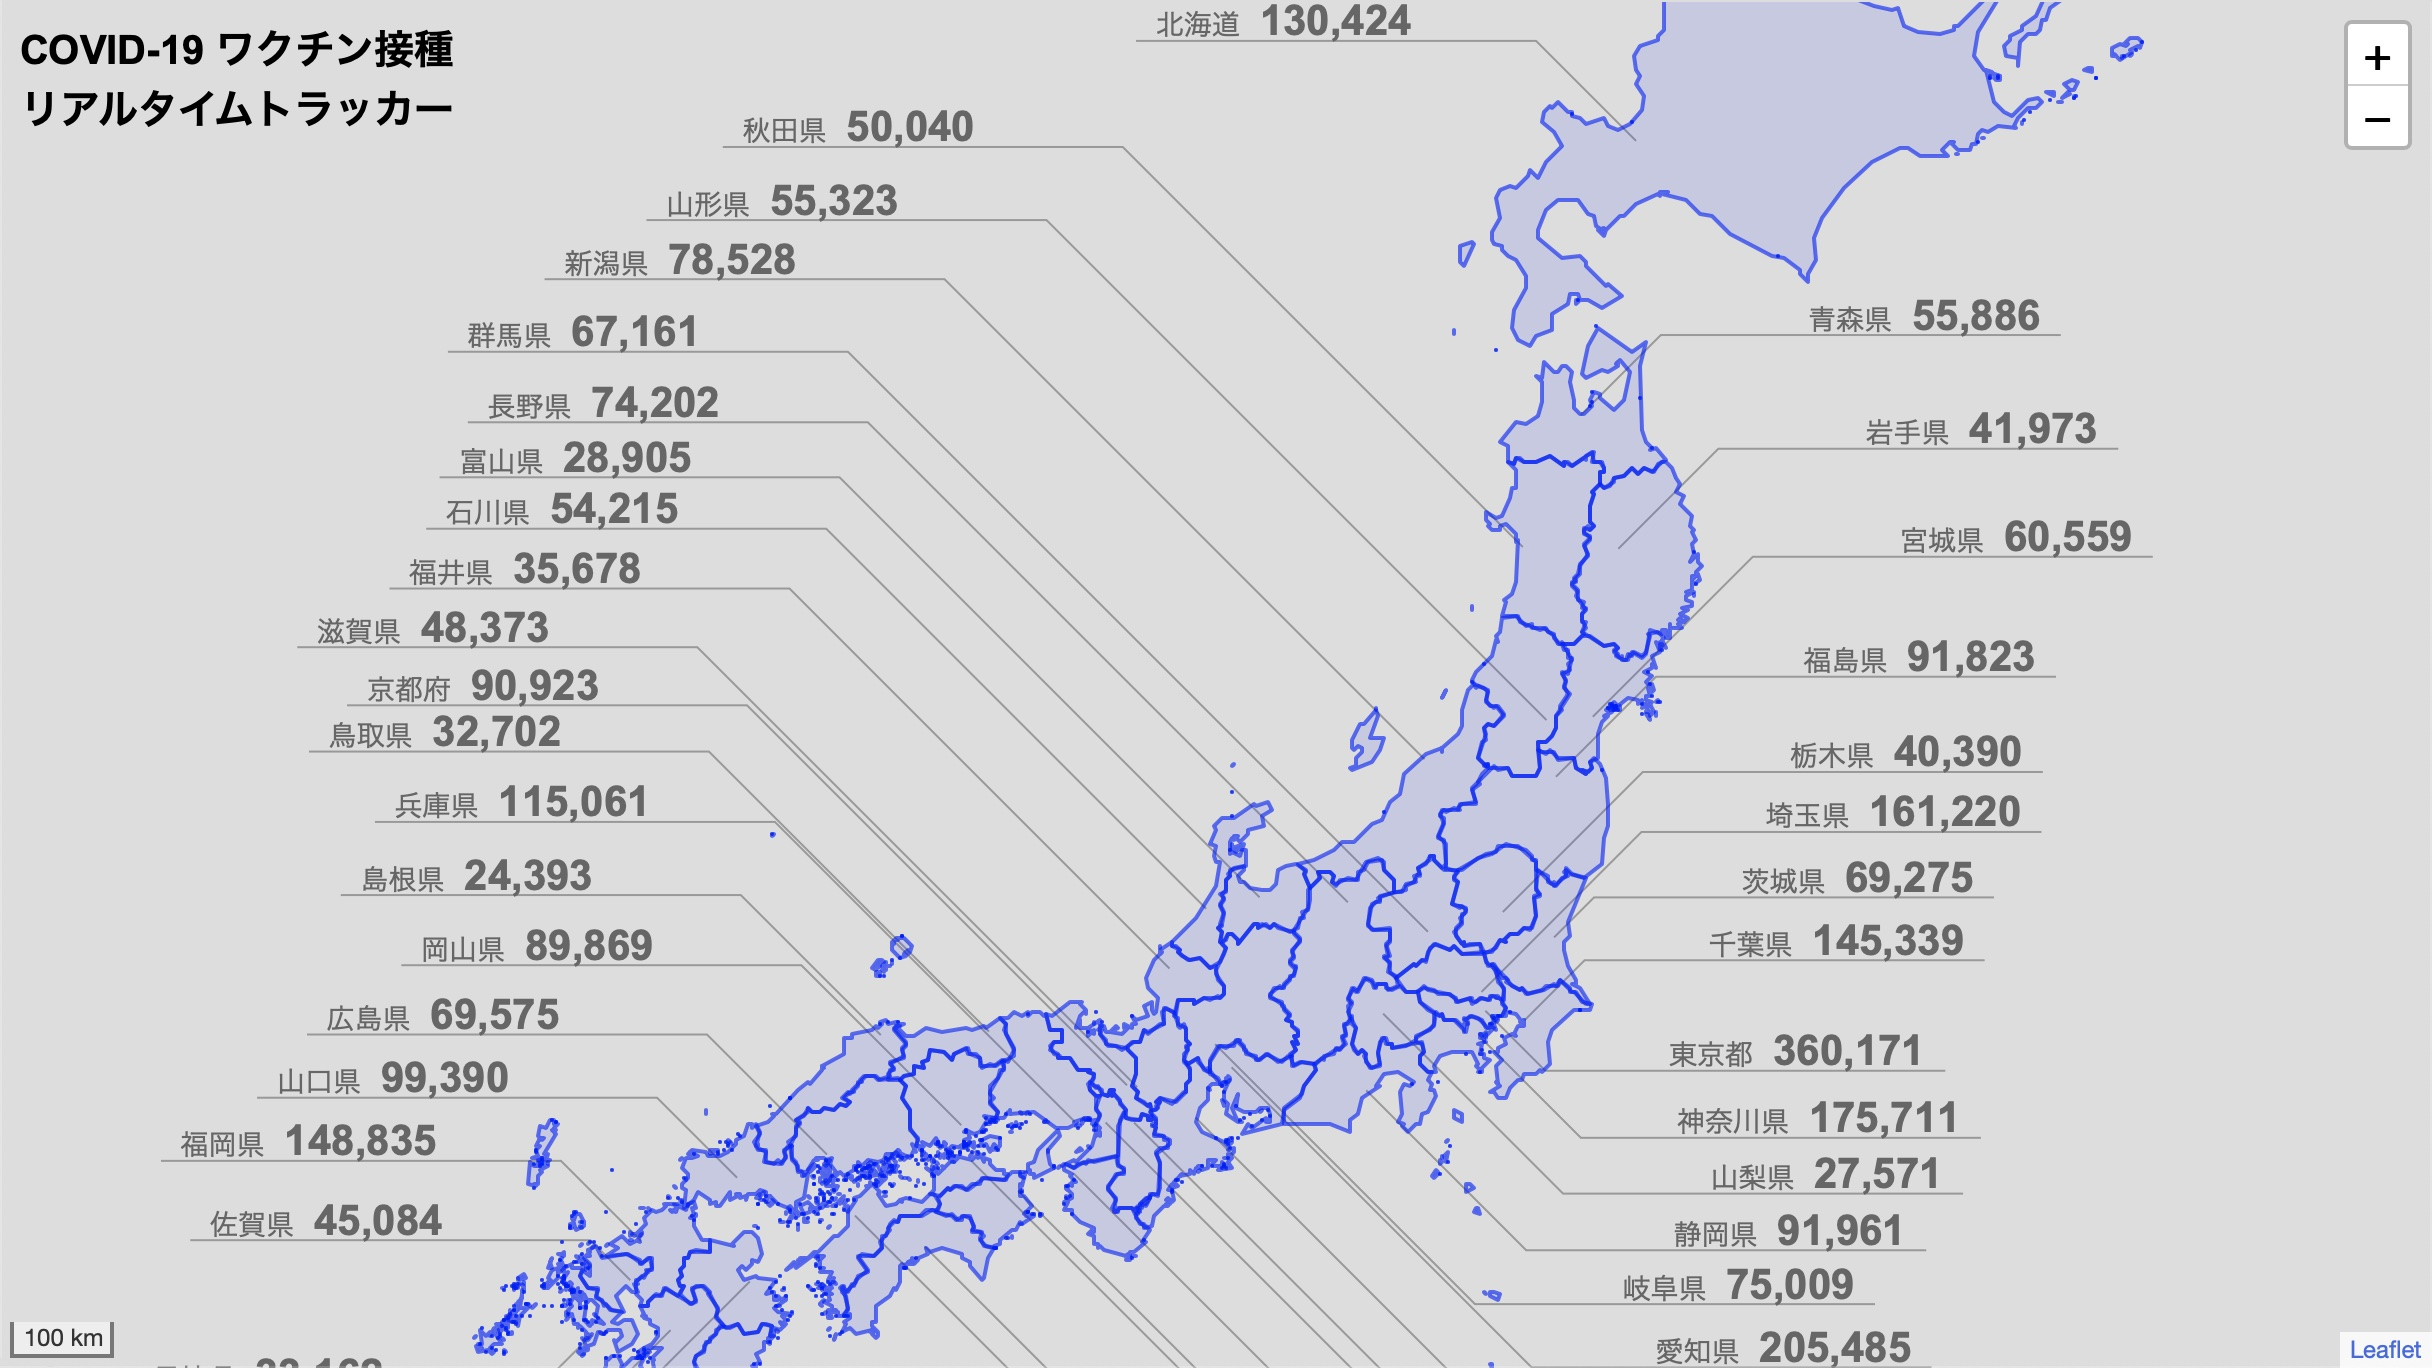
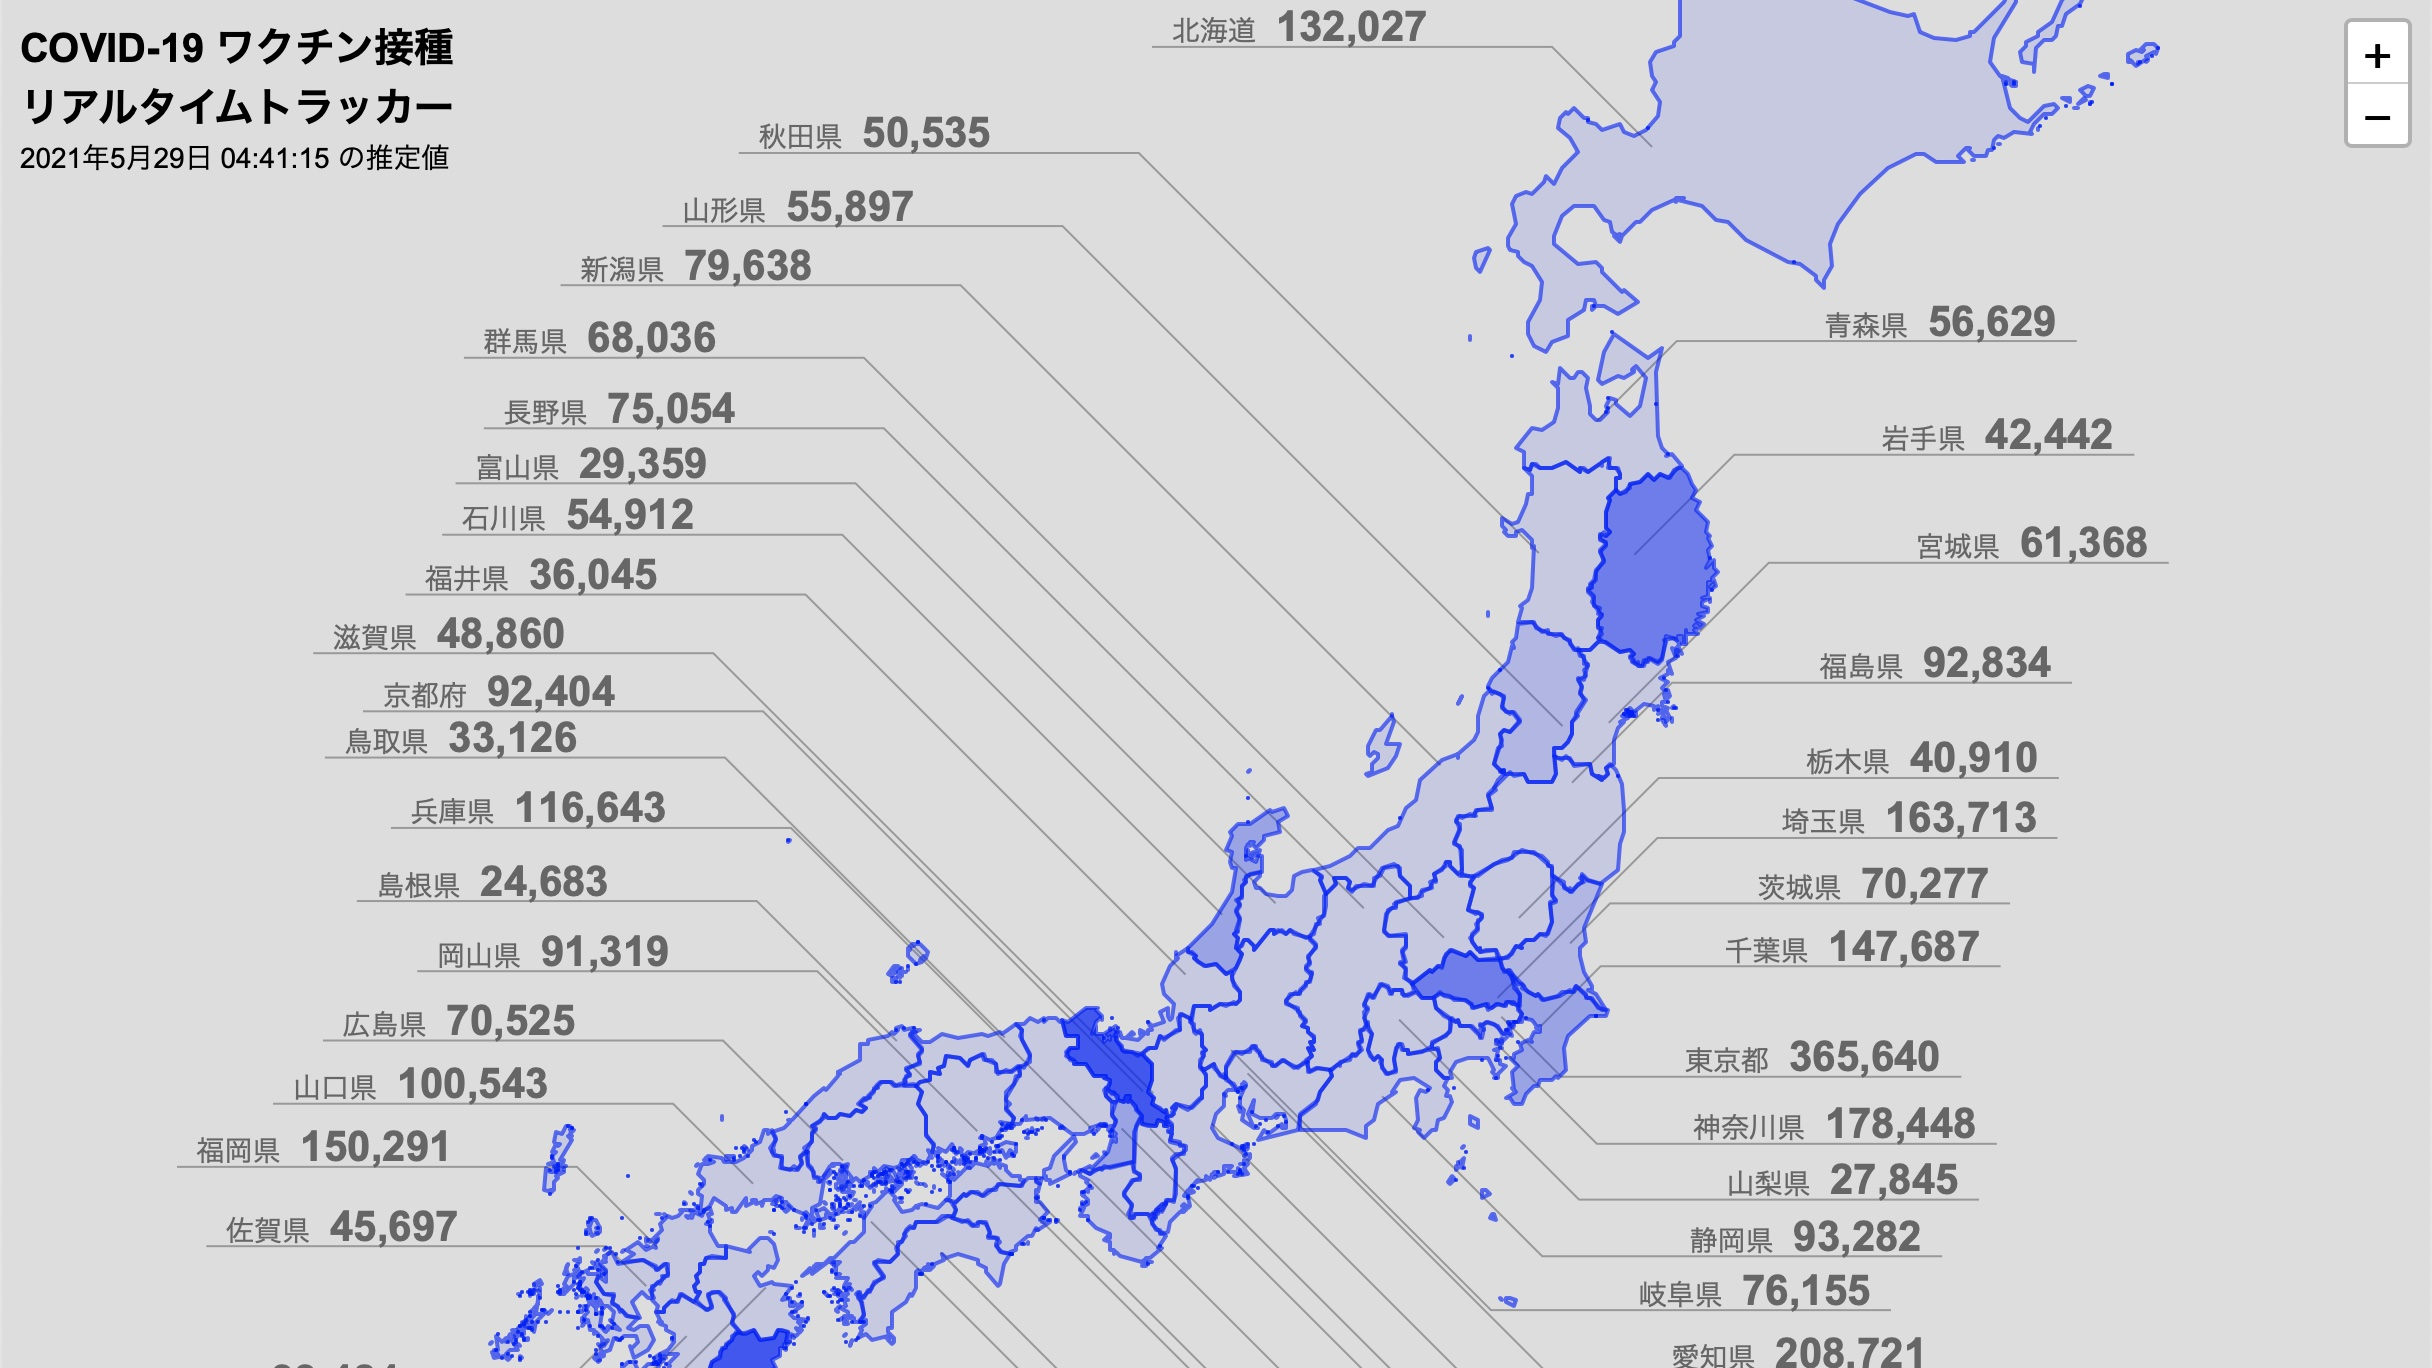
Add real-time estimation

diff --git a/index.html b/index.html
@@ -1,35 +1,39 @@
 <!DOCTYPE html>
 <html lang="ja_JP">
   <head>
-	<script async src="https://www.googletagmanager.com/gtag/js?id=UA-39988758-3"></script>
-	<script>
-		window.dataLayer = window.dataLayer || [];
-		function gtag(){dataLayer.push(arguments);}
-		gtag('js', new Date());
-		gtag('config', 'UA-39988758-3');
-	</script>
-	<meta charset="utf-8" />
-	<title>Japan COVID-19 Vaccination Real-Time Tracker</title>
-	<meta name="description" content="A new coronavirus (COVID-19) vaccination real-time tracker with live map in Japan. This data visualization was produced by Akihiko Kusanagi." />
-	<meta name="viewport" content="user-scalable=no, minimum-scale=1.0, maximum-scale=1.0, width=device-width, height=device-height, initial-scale=1" />
-	<meta property="og:title" content="Japan COVID-19 Vaccination Real-Time Tracker" />
-	<meta property="og:description" content="A newcoronavirus (COVID-19) vaccination real-time tracker with live map in Japan. This data visualization was produced by Akihiko Kusanagi." />
-	<meta property="og:locale" content="ja_JP" />
-	<link rel="canonical" href="https://nagix.github.io/japan-vaccination-tracker/" />
-	<meta property="og:url" content="https://nagix.github.io/japan-vaccination-tracker/" />
-	<meta property="og:site_name" content="Japan COVID-19 Vaccination Real-Time Tracker" />
-	<meta property="og:image" content="https://nagix.github.io/japan-vaccination-tracker/screenshot1.jpg" />
-	<meta name="twitter:card" content="summary_large_image" />
-	<meta name="twitter:site" content="@nagix" />
-  	<link rel="stylesheet" href="leaflet.css"/>
-  	<link rel="stylesheet" href="style.css"/>
-  	<script src="leaflet.js"></script>
-script>
+    <script async src="https://www.googletagmanager.com/gtag/js?id=UA-39988758-3"></script>
+    <script>
+      window.dataLayer = window.dataLayer || [];
+      function gtag(){dataLayer.push(arguments);}
+      gtag('js', new Date());
+      gtag('config', 'UA-39988758-3');
+    </script>
+    <meta charset="utf-8" />
+    <title>Japan COVID-19 Vaccination Real-Time Tracker</title>
+    <meta name="description" content="A new coronavirus (COVID-19) vaccination real-time tracker with live map in Japan. This data visualization was produced by Akihiko Kusanagi." />
+    <meta name="viewport" content="user-scalable=no, minimum-scale=1.0, maximum-scale=1.0, width=device-width, height=device-height, initial-scale=1" />
+    <meta property="og:title" content="Japan COVID-19 Vaccination Real-Time Tracker" />
+    <meta property="og:description" content="A newcoronavirus (COVID-19) vaccination real-time tracker with live map in Japan. This data visualization was produced by Akihiko Kusanagi." />
+    <meta property="og:locale" content="ja_JP" />
+    <link rel="canonical" href="https://nagix.github.io/japan-vaccination-tracker/" />
+    <meta property="og:url" content="https://nagix.github.io/japan-vaccination-tracker/" />
+    <meta property="og:site_name" content="Japan COVID-19 Vaccination Real-Time Tracker" />
+    <meta property="og:image" content="https://nagix.github.io/japan-vaccination-tracker/screenshot1.jpg" />
+    <meta name="twitter:card" content="summary_large_image" />
+    <meta name="twitter:site" content="@nagix" />
+    <link rel="stylesheet" href="leaflet.css"/>
+    <link rel="stylesheet" href="style.css"/>
+    <script src="leaflet.js"></script>
+    <script src="https://cdn.jsdelivr.net/npm/luxon@1.27.0"></script>
   </head>
   <body>
     <div id="map"></div>
     <svg id="info"></svg>
-  	<div id="title">COVID-19 ワクチン接種<br>リアルタイムトラッカー</div>
+    <div id="title">
+      <span class="title">COVID-19 ワクチン接種<br>リアルタイムトラッカー</span>
+      <br>
+      <span class="time"><span id="time"></span><br>1回目接種回数推定値</span>
+    </div>
     <script src="japan-vaccination-tracker.js"></script>
   </body>
 </html>

diff --git a/japan-vaccination-tracker.js b/japan-vaccination-tracker.js
@@ -1,3 +1,5 @@
+let lastTimeUpdate = 0;
+const time = document.getElementById('time');
 const svg = document.getElementById('info');
 const map = L.map('map', {center: [36, 136], zoom: svg.clientWidth < 600 ? 5 : 6});
 map.zoomControl.setPosition('topright');
@@ -31,6 +33,7 @@ function refreshLines(data, dict) {
     line.setAttributeNS(null, 'fill', 'transparent');
     lines.append(line);
     const label = document.createElementNS('http://www.w3.org/2000/svg', 'g');
+    label.id = `label-${item.pref}`;
     lines.append(label);
     const name = document.createElementNS('http://www.w3.org/2000/svg', 'text');
     name.setAttributeNS(null, 'x', 10 * factor);
@@ -81,17 +84,62 @@ Promise.all([
   });
 
   const dict = {};
+  const dates = {};
   for (const item of vaccination) {
     if (!dict[item.prefecture]) {
-      dict[item.prefecture] = {count: [0, 0], daily: {}};
+      dict[item.prefecture] = {base: [0, 0], rate: [0, 0], daily: {}, layers: [], flash: 0};
     }
-    dict[item.prefecture].count[item.status - 1] += item.count;
+    dict[item.prefecture].base[item.status - 1] += item.count;
     if (!dict[item.prefecture].daily[item.date]) {
       dict[item.prefecture].daily[item.date] = [0, 0];
     }
     dict[item.prefecture].daily[item.date][item.status - 1] += item.count;
+    dates[item.date] = true;
   }
-  const dates = Object.keys(dict).sort().reverse();
+  const week = Object.keys(dates).sort().slice(-7);
+  for (const key of Object.keys(dict)) {
+    const item = dict[key];
+    item.count = [...item.base];
+    for (const date of week) {
+      if (item.daily[date]) {
+        item.rate[0] += item.daily[date][0] / 7;
+        item.rate[1] += item.daily[date][1] / 7;
+      }
+    }
+    frontera.eachLayer(layer => {
+      if (layer.feature.properties.pref === +key) {
+        item.layers.push(layer);
+      }
+    });
+  }
 
   refreshLines(data, dict);
+
+  (function frameRefresh() {
+    const localTime = luxon.DateTime.fromObject({zone: 'Asia/Tokyo'});
+    const millis = Date.now() - localTime.startOf('day').toMillis();
+    for (const key of Object.keys(dict)) {
+      const item = dict[key];
+      const estimate = Math.floor(item.base[0] + item.rate[0] * millis / 86400000);
+      if (item.count[0] < estimate) {
+        item.count[0] = estimate;
+        const count = svg.querySelector(`#label-${+key} text:last-child`);
+        count.textContent = estimate.toLocaleString();
+        item.flash = 61;
+      }
+      if (item.flash > 0) {
+        item.flash--;
+        if (item.flash % 10 === 0) {
+          for (const layer of item.layers) {
+            layer.setStyle({fillOpacity: 0.1 + item.flash / 100});
+          }
+        }
+      }
+    }
+    if (lastTimeUpdate !== Date.now() % 1000 * 1000) {
+      time.textContent = localTime.toFormat('yyyy年M月d日 HH:mm:ss');
+      lastTimeUpdate = Date.now() % 1000 * 1000;
+    }
+    window.requestAnimationFrame(frameRefresh);
+  })();
 });

diff --git a/style.css b/style.css
@@ -15,12 +15,14 @@ h2 {color: #246421; font-weight: bold; font-size: 18px; margin-left: 1em;}
 img {max-width: 100%; height: auto;}
 input[type="text"], input[type="button"], input[type="search"], input[type="submit"], select {height: 30px;}
 blockquote {margin: 0 0 0 30px; padding: 10px 20px; border-left: 5px solid #f2f2f2; font-family: YuMincho, "Yu Mincho", 'Times New Roman'; color: #000000;}
-#title {top: 10px; left: 10px; width: calc(100% - 60px); position: absolute; pointer-events: none; font-size: 20px; font-weight: 900;}
 #map {top: 0; left: 0; width: 100%; height: 100%; position: absolute;}
 #info {top: 0; left: 0; width: 100%; height: 100%; position: absolute; pointer-events: none;}
+#title {top: 10px; left: 10px; width: calc(100% - 60px); position: absolute; pointer-events: none;}
 #busqueda {width: 80%; margin: 0 auto; max-width: 600px; height: 62px;}
 #footer {margin-top: 15px;}
 #footer-inner {color: #ffffff; padding: 8px 0 20px 0; font-size: 90%; text-align: center;}
 #footer-inner a {color: #ffffff; margin-right: 20px;}
+.title {font-size: 20px; font-weight: 900;}
+.time {font-size: 14px;}
 .prefecture-name {fill: #666;}
 .prefecture-count {font-weight: 900; fill: #666;}
